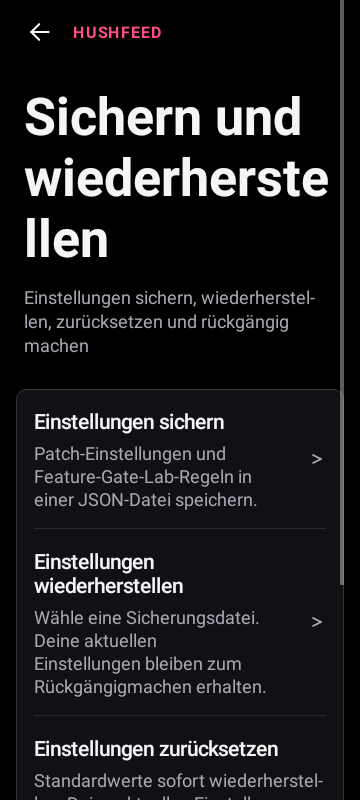
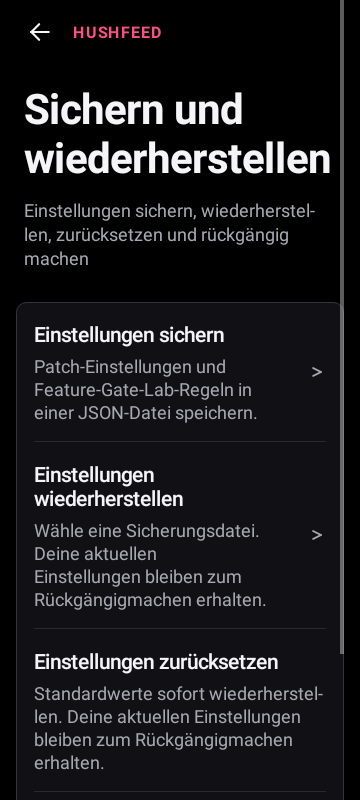
Keep translated titles and feed controls visible

diff --git a/extensions/tiktok/src/test/java/app/morphe/extension/tiktok/blockauthor/OverlayControlsTest.java b/extensions/tiktok/src/test/java/app/morphe/extension/tiktok/blockauthor/OverlayControlsTest.java
@@ -378,6 +378,74 @@ public class OverlayControlsTest {
         assertEquals("a control was pushed off the right", maxLeft, leftOf(feedback));
     }
 
+    @Test @Config(sdk = 35)
+    public void draggedControlsStayOutsideSystemBarsAndSideCutouts() throws Exception {
+        Activity activity = Robolectric.buildActivity(Activity.class).setup().get();
+        Utils.setContext(activity);
+        Utils.setActivity(activity);
+        android.view.WindowInsets insets = new android.view.WindowInsets.Builder()
+                .setInsets(android.view.WindowInsets.Type.systemBars(),
+                        android.graphics.Insets.of(36, 72, 54, 96))
+                .build();
+        FrameLayout root = new FrameLayout(activity) {
+            @Override public android.view.WindowInsets getRootWindowInsets() {
+                return insets;
+            }
+        };
+        View feedback = new View(activity);
+        int size = SettingsUi.dp(activity, 48);
+        root.addView(feedback, new FrameLayout.LayoutParams(size, size));
+        int exact = View.MeasureSpec.makeMeasureSpec(1080, View.MeasureSpec.EXACTLY);
+        root.measure(exact, exact);
+        root.layout(0, 0, 1080, 1080);
+        Method move = declared("moveTo", View.class, ViewGroup.class, float.class, float.class);
+
+        move.invoke(null, feedback, root, -500f, -500f);
+        assertEquals("the control entered the side cutout", 36, leftOf(feedback));
+        assertEquals("the control entered the status bar", 72, topOf(feedback));
+
+        move.invoke(null, feedback, root, 2_000f, 2_000f);
+        assertEquals("the control entered the right system inset", 1080 - 54 - size,
+                leftOf(feedback));
+        assertEquals("the control entered the navigation inset", 1080 - 96 - size,
+                topOf(feedback));
+    }
+
+    @Test public void draggedControlsStayAboveTikToksBottomTabRow() throws Exception {
+        Activity activity = Robolectric.buildActivity(Activity.class).setup().visible().get();
+        Utils.setContext(activity);
+        Utils.setActivity(activity);
+        ViewGroup root = activity.findViewById(android.R.id.content);
+        assertNotNull(root);
+        FrameLayout tabBar = new FrameLayout(activity);
+        View homeTab = new View(activity);
+        View feedback = new View(activity);
+        int size = SettingsUi.dp(activity, 48);
+        tabBar.addView(homeTab, new FrameLayout.LayoutParams(216, 160));
+        root.addView(tabBar, new FrameLayout.LayoutParams(1080, 160));
+        root.addView(feedback, new FrameLayout.LayoutParams(size, size));
+        int exact = View.MeasureSpec.makeMeasureSpec(1080, View.MeasureSpec.EXACTLY);
+        root.measure(exact, exact);
+        root.layout(0, 0, 1080, 1080);
+        tabBar.layout(0, 920, 1080, 1080);
+        homeTab.layout(0, 0, 216, 160);
+        org.robolectric.util.ReflectionHelpers.setStaticField(
+                FeedVisibility.class, "homeTabReference",
+                new java.lang.ref.WeakReference<>(homeTab));
+        try {
+            declared("moveTo", View.class, ViewGroup.class, float.class, float.class)
+                    .invoke(null, feedback, root, 2_000f, 2_000f);
+
+            assertEquals("the control covered TikTok's bottom tab row",
+                    1080 - 160 - size, topOf(feedback));
+        } finally {
+            org.robolectric.util.ReflectionHelpers.setStaticField(
+                    FeedVisibility.class, "homeTabReference",
+                    new java.lang.ref.WeakReference<>(null));
+            activity.finish();
+        }
+    }
+
     @Test public void aMoveActionNeverEntersPointerDragMode() throws Exception {
         ViewGroup root = attachedRoot();
         View block = held("buttonReference");

diff --git a/extensions/tiktok/src/main/java/app/morphe/extension/tiktok/settings/preference/SettingsHeaderPreference.java b/extensions/tiktok/src/main/java/app/morphe/extension/tiktok/settings/preference/SettingsHeaderPreference.java
@@ -129,7 +129,7 @@ public final class SettingsHeaderPreference extends Preference {
         toolbar.addView(brand, brandParams);
         header.addView(toolbar, new LinearLayout.LayoutParams(-1, -2));
         TextView heading = SettingsUi.text(
-                context, title, headingSizeSp(context), SettingsUi.textPrimary(), 1);
+                context, title, headingSizeSp(context, title), SettingsUi.textPrimary(), 1);
         heading.setTag("hushfeed_page_title");
         heading.setHyphenationFrequency(android.text.Layout.HYPHENATION_FREQUENCY_NONE);
         if (android.os.Build.VERSION.SDK_INT >= 28) heading.setAccessibilityHeading(true);
@@ -161,6 +161,40 @@ public final class SettingsHeaderPreference extends Preference {
         float scale = context.getResources().getConfiguration().fontScale;
         if (scale <= 1.3f) return 40;
         return Math.max(24, Math.round(40 * 1.3f / scale));
+    }
+
+    /**
+     * Keeps the longest word whole when a translated title meets large text on a narrow phone.
+     * Android otherwise breaks an unhyphenated word at an arbitrary character, which made the
+     * German "wiederherstellen" end with a two-line fragment even though a modestly smaller
+     * display heading could keep the word intact. Body text and the system font scale are left
+     * untouched; only this oversized display title adapts, with 20sp as its floor.
+     */
+    static int headingSizeSp(Context context, String title) {
+        int preferred = headingSizeSp(context);
+        if (title == null || title.trim().isEmpty()) return preferred;
+
+        android.content.res.Resources resources = context.getResources();
+        android.util.DisplayMetrics metrics = resources.getDisplayMetrics();
+        int screenWidthDp = resources.getConfiguration().screenWidthDp;
+        float windowWidth = screenWidthDp > 0
+                ? screenWidthDp * metrics.density
+                : metrics.widthPixels;
+        // The list contributes a 16dp gutter and this header contributes another 8dp per side.
+        float available = Math.max(SettingsUi.dp(context, 160),
+                windowWidth - SettingsUi.dp(context, 48));
+
+        Paint paint = new Paint(Paint.ANTI_ALIAS_FLAG);
+        paint.setTypeface(android.graphics.Typeface.DEFAULT_BOLD);
+        paint.setTextSize(android.util.TypedValue.applyDimension(
+                android.util.TypedValue.COMPLEX_UNIT_SP, preferred, metrics));
+        float longest = 0;
+        for (String word : title.trim().split("\\s+")) {
+            longest = Math.max(longest, paint.measureText(word));
+        }
+        if (longest <= available || longest <= 0) return preferred;
+        int fitted = (int) Math.floor(preferred * available / longest);
+        return Math.max(20, Math.min(preferred, fitted));
     }
 
     public static final class BackDrawable extends Drawable {

diff --git a/extensions/tiktok/src/main/java/app/morphe/extension/tiktok/blockauthor/BlockAuthorOverlay.java b/extensions/tiktok/src/main/java/app/morphe/extension/tiktok/blockauthor/BlockAuthorOverlay.java
@@ -7,6 +7,7 @@
 package app.morphe.extension.tiktok.blockauthor;
 
 import android.app.Activity;
+import android.graphics.Rect;
 import android.graphics.drawable.Drawable;
 import android.graphics.drawable.LayerDrawable;
 import android.util.TypedValue;
@@ -25,6 +26,7 @@ import app.morphe.extension.shared.Utils;
 import app.morphe.extension.shared.settings.StringSetting;
 import app.morphe.extension.tiktok.feedfilter.SoundIdentity;
 import app.morphe.extension.tiktok.settings.Settings;
+import app.morphe.extension.tiktok.settings.SystemBarInsets;
 import app.morphe.extension.tiktok.settings.preference.SettingsUi;
 import app.morphe.extension.tiktok.settings.L10n;
 import app.morphe.extension.tiktok.settings.SettingsStatus;
@@ -610,19 +612,30 @@ public final class BlockAuthorOverlay {
         return location[1];
     }
 
-    /** Moves the button, keeping it fully inside its parent. */
+    /** Moves the button, keeping it clear of screen edges, cutouts and TikTok's tab bar. */
     private static void moveTo(View view, ViewGroup parent, float left, float top) {
         // Before the first layout the view has no size, so fall back to the size it was
         // given, or the clamp would let it sit partly off the right and bottom edges.
         ViewGroup.LayoutParams layout = view.getLayoutParams();
         int width = view.getWidth() > 0 ? view.getWidth() : layout.width;
         int height = view.getHeight() > 0 ? view.getHeight() : layout.height;
-        int maxLeft = Math.max(0, parent.getWidth() - width);
-        int maxTop = Math.max(0, parent.getHeight() - height);
+        Rect systemInsets = SystemBarInsets.current(parent);
+        int minimumLeft = Math.max(0, systemInsets.left);
+        int minimumTop = Math.max(0, systemInsets.top);
+        int reservedBottom = Math.max(0, systemInsets.bottom);
+        Activity activity = Utils.getActivity();
+        if (activity != null) {
+            reservedBottom = Math.max(reservedBottom,
+                    SessionLockOverlay.navigationHeight(activity, parent));
+        }
+        int maxLeft = Math.max(minimumLeft,
+                parent.getWidth() - Math.max(0, systemInsets.right) - width);
+        int maxTop = Math.max(minimumTop,
+                parent.getHeight() - reservedBottom - height);
 
         ViewGroup.MarginLayoutParams params = (ViewGroup.MarginLayoutParams) view.getLayoutParams();
-        params.leftMargin = Math.round(Math.min(Math.max(left, 0), maxLeft));
-        params.topMargin = Math.round(Math.min(Math.max(top, 0), maxTop));
+        params.leftMargin = Math.round(Math.min(Math.max(left, minimumLeft), maxLeft));
+        params.topMargin = Math.round(Math.min(Math.max(top, minimumTop), maxTop));
         view.setLayoutParams(params);
     }
 

diff --git a/extensions/tiktok/src/test/java/app/morphe/extension/tiktok/settings/SettingsPagesTest.java b/extensions/tiktok/src/test/java/app/morphe/extension/tiktok/settings/SettingsPagesTest.java
@@ -1066,6 +1066,16 @@ public class SettingsPagesTest {
             assertTrue(heading.getLineCount() > 1);
             assertEquals(0, heading.getLayout().getEllipsisCount(heading.getLineCount() - 1));
             assertTrue(heading.getHeight() >= heading.getLayout().getHeight());
+            String renderedTitle = heading.getText().toString();
+            for (int line = 0; line < heading.getLineCount() - 1; line++) {
+                int end = heading.getLayout().getLineEnd(line);
+                boolean atWordBoundary = end > 0 && Character.isWhitespace(renderedTitle.charAt(end - 1));
+                if (!atWordBoundary && end < renderedTitle.length()) {
+                    atWordBoundary = Character.isWhitespace(renderedTitle.charAt(end));
+                }
+                assertTrue("the title broke a word at line " + line + ": " + renderedTitle,
+                        atWordBoundary);
+            }
             TextView caption = findTextViewContaining(page.getView(), "Einstellungen sichern");
             assertNotNull(caption);
             assertTextFits(caption);

diff --git a/extensions/tiktok/src/main/java/app/morphe/extension/tiktok/settings/SystemBarInsets.java b/extensions/tiktok/src/main/java/app/morphe/extension/tiktok/settings/SystemBarInsets.java
@@ -45,6 +45,11 @@ public final class SystemBarInsets {
         view.requestApplyInsets();
     }
 
+    /** Current bars and cutout for an app-owned overlay attached to {@code view}'s window. */
+    public static Rect current(View view) {
+        return view == null ? new Rect() : systemBarsAndCutout(view.getRootWindowInsets());
+    }
+
     /**
      * The space the bars and the cutout take, in pixels.
      *

diff --git a/CHANGELOG.md b/CHANGELOG.md
@@ -4,6 +4,11 @@ Every Hushfeed release, newest first.
 
 ## Unreleased
 
+### Interface and accessibility
+
+* **TikTok:** Large translated settings titles now keep words whole at enlarged text sizes. The title adapts within a limited range while Android's chosen font scale remains unchanged everywhere else.
+* **TikTok:** Movable feed controls now stay clear of status bars, navigation insets, display cutouts and TikTok's bottom tab row.
+
 ### Reliability
 
 * **TikTok:** A failed settings write now keeps the live value aligned with the value that will survive a restart. Hushfeed reports the storage error and keeps an old preference intact until migration has finished successfully.
